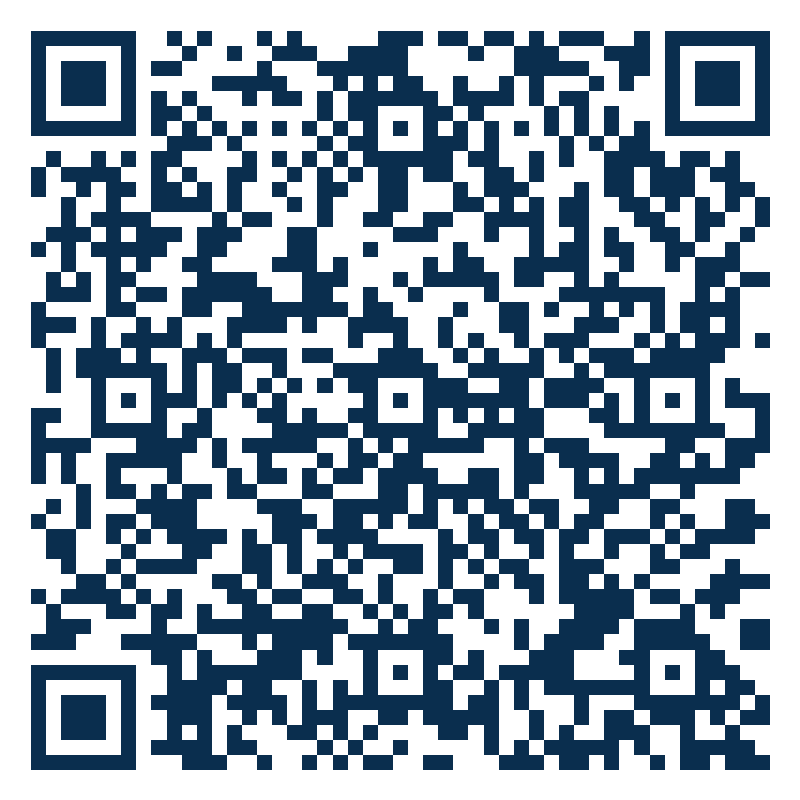
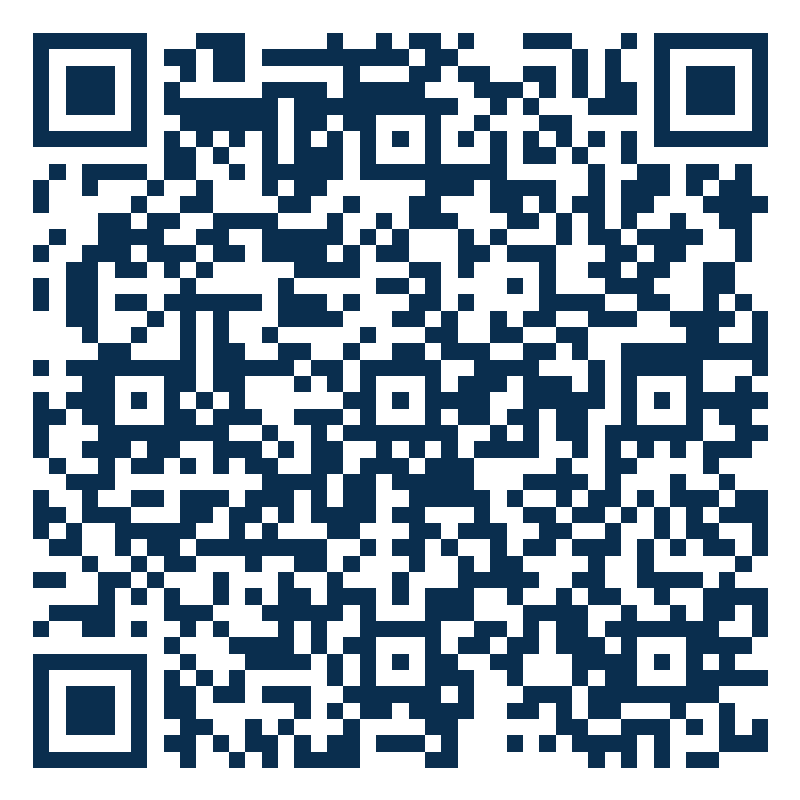
Add resources share mode for QR traffic and regenerate QR targets

diff --git a/docs/marketing/web/qr-links.html b/docs/marketing/web/qr-links.html
@@ -35,49 +35,49 @@
       <article class="card">
         <img src="assets/qr/hub.png" alt="QR to HDIM resources hub">
         <div class="label">1. Resources Hub</div>
-        <div class="url">https://landing-page-ecru-five-65.vercel.app/resources?utm_source=himss2026&utm_medium=qr&utm_campaign=node-to-java-story&utm_content=hub</div>
+        <div class="url">https://landing-page-ecru-five-65.vercel.app/resources?share=1&utm_source=himss2026&utm_medium=qr&utm_campaign=node-to-java-story&utm_content=hub</div>
       </article>
 
       <article class="card">
         <img src="assets/qr/origin-story.png" alt="QR to origin story">
         <div class="label">2. Origin Story</div>
-        <div class="url">https://landing-page-ecru-five-65.vercel.app/resources/origin-story?utm_source=himss2026&utm_medium=qr&utm_campaign=node-to-java-story&utm_content=origin-story</div>
+        <div class="url">https://landing-page-ecru-five-65.vercel.app/resources/origin-story?share=1&utm_source=himss2026&utm_medium=qr&utm_campaign=node-to-java-story&utm_content=origin-story</div>
       </article>
 
       <article class="card">
         <img src="assets/qr/executive-summary.png" alt="QR to executive summary">
         <div class="label">3. Executive Summary</div>
-        <div class="url">https://landing-page-ecru-five-65.vercel.app/resources/executive-summary?utm_source=himss2026&utm_medium=qr&utm_campaign=node-to-java-story&utm_content=executive-summary</div>
+        <div class="url">https://landing-page-ecru-five-65.vercel.app/resources/executive-summary?share=1&utm_source=himss2026&utm_medium=qr&utm_campaign=node-to-java-story&utm_content=executive-summary</div>
       </article>
 
       <article class="card">
         <img src="assets/qr/java-rebuild.png" alt="QR to Java rebuild deep dive">
         <div class="label">4. Java Rebuild</div>
-        <div class="url">https://landing-page-ecru-five-65.vercel.app/resources/java-rebuild?utm_source=himss2026&utm_medium=qr&utm_campaign=node-to-java-story&utm_content=java-rebuild</div>
+        <div class="url">https://landing-page-ecru-five-65.vercel.app/resources/java-rebuild?share=1&utm_source=himss2026&utm_medium=qr&utm_campaign=node-to-java-story&utm_content=java-rebuild</div>
       </article>
 
       <article class="card">
         <img src="assets/qr/architecture-evolution.png" alt="QR to architecture evolution">
         <div class="label">5. Architecture Evolution</div>
-        <div class="url">https://landing-page-ecru-five-65.vercel.app/resources/architecture-evolution?utm_source=himss2026&utm_medium=qr&utm_campaign=node-to-java-story&utm_content=architecture-evolution</div>
+        <div class="url">https://landing-page-ecru-five-65.vercel.app/resources/architecture-evolution?share=1&utm_source=himss2026&utm_medium=qr&utm_campaign=node-to-java-story&utm_content=architecture-evolution</div>
       </article>
 
       <article class="card">
         <img src="assets/qr/evidence-room.png" alt="QR to evidence room">
         <div class="label">6. Evidence Room</div>
-        <div class="url">https://landing-page-ecru-five-65.vercel.app/resources/evidence-room?utm_source=himss2026&utm_medium=qr&utm_campaign=node-to-java-story&utm_content=evidence-room</div>
+        <div class="url">https://landing-page-ecru-five-65.vercel.app/resources/evidence-room?share=1&utm_source=himss2026&utm_medium=qr&utm_campaign=node-to-java-story&utm_content=evidence-room</div>
       </article>
 
       <article class="card">
         <img src="assets/qr/technical-path.png" alt="QR to technical path">
         <div class="label">7. Technical Path</div>
-        <div class="url">https://landing-page-ecru-five-65.vercel.app/resources/technical?utm_source=himss2026&utm_medium=qr&utm_campaign=node-to-java-story&utm_content=technical-path</div>
+        <div class="url">https://landing-page-ecru-five-65.vercel.app/resources/technical?share=1&utm_source=himss2026&utm_medium=qr&utm_campaign=node-to-java-story&utm_content=technical-path</div>
       </article>
 
       <article class="card">
         <img src="assets/qr/himss-brief.png" alt="QR to HIMSS brief">
         <div class="label">8. HIMSS Brief</div>
-        <div class="url">https://landing-page-ecru-five-65.vercel.app/resources/himss-brief?utm_source=himss2026&utm_medium=qr&utm_campaign=node-to-java-story&utm_content=himss-brief</div>
+        <div class="url">https://landing-page-ecru-five-65.vercel.app/resources/himss-brief?share=1&utm_source=himss2026&utm_medium=qr&utm_campaign=node-to-java-story&utm_content=himss-brief</div>
       </article>
     </div>
 

diff --git a/docs/marketing/web/qr-portal.html b/docs/marketing/web/qr-portal.html
@@ -223,7 +223,7 @@
         label: 'Resources Hub',
         short: 'Master index for all buyer paths.',
         qr: 'assets/qr/hub.png',
-        url: 'https://landing-page-ecru-five-65.vercel.app/resources?utm_source=himss2026&utm_medium=qr&utm_campaign=node-to-java-story&utm_content=hub'
+        url: 'https://landing-page-ecru-five-65.vercel.app/resources?share=1&utm_source=himss2026&utm_medium=qr&utm_campaign=node-to-java-story&utm_content=hub'
       },
       {
         id: 'origin-story',
@@ -231,7 +231,7 @@
         label: 'Origin Story',
         short: 'Problem-to-platform founder narrative.',
         qr: 'assets/qr/origin-story.png',
-        url: 'https://landing-page-ecru-five-65.vercel.app/resources/origin-story?utm_source=himss2026&utm_medium=qr&utm_campaign=node-to-java-story&utm_content=origin-story'
+        url: 'https://landing-page-ecru-five-65.vercel.app/resources/origin-story?share=1&utm_source=himss2026&utm_medium=qr&utm_campaign=node-to-java-story&utm_content=origin-story'
       },
       {
         id: 'executive-summary',
@@ -239,7 +239,7 @@
         label: 'Executive Summary',
         short: 'High-level proof and outcomes.',
         qr: 'assets/qr/executive-summary.png',
-        url: 'https://landing-page-ecru-five-65.vercel.app/resources/executive-summary?utm_source=himss2026&utm_medium=qr&utm_campaign=node-to-java-story&utm_content=executive-summary'
+        url: 'https://landing-page-ecru-five-65.vercel.app/resources/executive-summary?share=1&utm_source=himss2026&utm_medium=qr&utm_campaign=node-to-java-story&utm_content=executive-summary'
       },
       {
         id: 'java-rebuild',
@@ -247,7 +247,7 @@
         label: 'Java Rebuild',
         short: 'Node.js to Java decision deep dive.',
         qr: 'assets/qr/java-rebuild.png',
-        url: 'https://landing-page-ecru-five-65.vercel.app/resources/java-rebuild?utm_source=himss2026&utm_medium=qr&utm_campaign=node-to-java-story&utm_content=java-rebuild'
+        url: 'https://landing-page-ecru-five-65.vercel.app/resources/java-rebuild?share=1&utm_source=himss2026&utm_medium=qr&utm_campaign=node-to-java-story&utm_content=java-rebuild'
       },
       {
         id: 'architecture-evolution',
@@ -255,7 +255,7 @@
         label: 'Architecture Evolution',
         short: 'Dated decision log and platform phases.',
         qr: 'assets/qr/architecture-evolution.png',
-        url: 'https://landing-page-ecru-five-65.vercel.app/resources/architecture-evolution?utm_source=himss2026&utm_medium=qr&utm_campaign=node-to-java-story&utm_content=architecture-evolution'
+        url: 'https://landing-page-ecru-five-65.vercel.app/resources/architecture-evolution?share=1&utm_source=himss2026&utm_medium=qr&utm_campaign=node-to-java-story&utm_content=architecture-evolution'
       },
       {
         id: 'evidence-room',
@@ -263,7 +263,7 @@
         label: 'Evidence Room',
         short: 'Governance and diligence path.',
         qr: 'assets/qr/evidence-room.png',
-        url: 'https://landing-page-ecru-five-65.vercel.app/resources/evidence-room?utm_source=himss2026&utm_medium=qr&utm_campaign=node-to-java-story&utm_content=evidence-room'
+        url: 'https://landing-page-ecru-five-65.vercel.app/resources/evidence-room?share=1&utm_source=himss2026&utm_medium=qr&utm_campaign=node-to-java-story&utm_content=evidence-room'
       },
       {
         id: 'technical-path',
@@ -271,7 +271,7 @@
         label: 'Technical Path',
         short: 'Engineering depth and controls.',
         qr: 'assets/qr/technical-path.png',
-        url: 'https://landing-page-ecru-five-65.vercel.app/resources/technical?utm_source=himss2026&utm_medium=qr&utm_campaign=node-to-java-story&utm_content=technical-path'
+        url: 'https://landing-page-ecru-five-65.vercel.app/resources/technical?share=1&utm_source=himss2026&utm_medium=qr&utm_campaign=node-to-java-story&utm_content=technical-path'
       },
       {
         id: 'himss-brief',
@@ -279,7 +279,7 @@
         label: 'HIMSS Brief',
         short: 'Conference-ready walkthrough.',
         qr: 'assets/qr/himss-brief.png',
-        url: 'https://landing-page-ecru-five-65.vercel.app/resources/himss-brief?utm_source=himss2026&utm_medium=qr&utm_campaign=node-to-java-story&utm_content=himss-brief'
+        url: 'https://landing-page-ecru-five-65.vercel.app/resources/himss-brief?share=1&utm_source=himss2026&utm_medium=qr&utm_campaign=node-to-java-story&utm_content=himss-brief'
       }
     ];
 

diff --git a/landing-page/src/app/resources/layout.tsx b/landing-page/src/app/resources/layout.tsx
@@ -1,6 +1,7 @@
 import { Manrope, Space_Grotesk } from 'next/font/google';
 import { LanguageProvider } from '@/lib/i18n/LanguageContext';
 import ResourceNav from '@/components/resources/ResourceNav';
+import ResourcesFooter from '@/components/resources/ResourcesFooter';
 import styles from '@/styles/agui-portal.module.css';
 
 const manrope = Manrope({
@@ -34,11 +35,7 @@ export default function ResourcesLayout({
       >
         <ResourceNav />
         <main className={styles.portalShell}>{children}</main>
-        <footer className={styles.portalShell}>
-          <div className={styles.footer}>
-            <p>HDIM Resources | healthdatainmotion.com</p>
-          </div>
-        </footer>
+        <ResourcesFooter />
       </div>
     </LanguageProvider>
   );

diff --git a/landing-page/src/components/resources/ResourceNav.tsx b/landing-page/src/components/resources/ResourceNav.tsx
@@ -3,6 +3,7 @@
 import Link from 'next/link';
 import { usePathname } from 'next/navigation';
 import { useRouter } from 'next/navigation';
+import { useSearchParams } from 'next/navigation';
 import { useLanguage } from '@/lib/i18n/LanguageContext';
 import styles from '@/styles/agui-portal.module.css';
 
@@ -20,7 +21,13 @@ const navItems = [
 export default function ResourceNav() {
   const pathname = usePathname();
   const router = useRouter();
+  const searchParams = useSearchParams();
   const { locale, setLocale, t } = useLanguage();
+  const shareMode = searchParams.get('share') === '1';
+
+  if (shareMode) {
+    return null;
+  }
 
   return (
     <nav className={styles.portalNav} aria-label="Resources navigation">

diff --git a/landing-page/src/components/resources/ResourcesFooter.tsx b/landing-page/src/components/resources/ResourcesFooter.tsx
@@ -1,0 +1,21 @@
+'use client';
+
+import { useSearchParams } from 'next/navigation';
+import styles from '@/styles/agui-portal.module.css';
+
+export default function ResourcesFooter() {
+  const searchParams = useSearchParams();
+  const shareMode = searchParams.get('share') === '1';
+
+  if (shareMode) {
+    return null;
+  }
+
+  return (
+    <footer className={styles.portalShell}>
+      <div className={styles.footer}>
+        <p>HDIM Resources | healthdatainmotion.com</p>
+      </div>
+    </footer>
+  );
+}

diff --git a/docs/marketing/web/assets/qr/README.md b/docs/marketing/web/assets/qr/README.md
@@ -14,14 +14,14 @@ All QR URLs use:
 - `utm_content=<asset-slug>`
 
 ## Included tracked targets
-- `hub.png` (`utm_content=hub`) -> `https://landing-page-ecru-five-65.vercel.app/resources?utm_source=himss2026&utm_medium=qr&utm_campaign=node-to-java-story&utm_content=hub`
-- `origin-story.png` (`utm_content=origin-story`) -> `https://landing-page-ecru-five-65.vercel.app/resources/origin-story?utm_source=himss2026&utm_medium=qr&utm_campaign=node-to-java-story&utm_content=origin-story`
-- `executive-summary.png` (`utm_content=executive-summary`) -> `https://landing-page-ecru-five-65.vercel.app/resources/executive-summary?utm_source=himss2026&utm_medium=qr&utm_campaign=node-to-java-story&utm_content=executive-summary`
-- `java-rebuild.png` (`utm_content=java-rebuild`) -> `https://landing-page-ecru-five-65.vercel.app/resources/java-rebuild?utm_source=himss2026&utm_medium=qr&utm_campaign=node-to-java-story&utm_content=java-rebuild`
-- `architecture-evolution.png` (`utm_content=architecture-evolution`) -> `https://landing-page-ecru-five-65.vercel.app/resources/architecture-evolution?utm_source=himss2026&utm_medium=qr&utm_campaign=node-to-java-story&utm_content=architecture-evolution`
-- `evidence-room.png` (`utm_content=evidence-room`) -> `https://landing-page-ecru-five-65.vercel.app/resources/evidence-room?utm_source=himss2026&utm_medium=qr&utm_campaign=node-to-java-story&utm_content=evidence-room`
-- `technical-path.png` (`utm_content=technical-path`) -> `https://landing-page-ecru-five-65.vercel.app/resources/technical?utm_source=himss2026&utm_medium=qr&utm_campaign=node-to-java-story&utm_content=technical-path`
-- `himss-brief.png` (`utm_content=himss-brief`) -> `https://landing-page-ecru-five-65.vercel.app/resources/himss-brief?utm_source=himss2026&utm_medium=qr&utm_campaign=node-to-java-story&utm_content=himss-brief`
+- `hub.png` (`utm_content=hub`) -> `https://landing-page-ecru-five-65.vercel.app/resources?share=1&utm_source=himss2026&utm_medium=qr&utm_campaign=node-to-java-story&utm_content=hub`
+- `origin-story.png` (`utm_content=origin-story`) -> `https://landing-page-ecru-five-65.vercel.app/resources/origin-story?share=1&utm_source=himss2026&utm_medium=qr&utm_campaign=node-to-java-story&utm_content=origin-story`
+- `executive-summary.png` (`utm_content=executive-summary`) -> `https://landing-page-ecru-five-65.vercel.app/resources/executive-summary?share=1&utm_source=himss2026&utm_medium=qr&utm_campaign=node-to-java-story&utm_content=executive-summary`
+- `java-rebuild.png` (`utm_content=java-rebuild`) -> `https://landing-page-ecru-five-65.vercel.app/resources/java-rebuild?share=1&utm_source=himss2026&utm_medium=qr&utm_campaign=node-to-java-story&utm_content=java-rebuild`
+- `architecture-evolution.png` (`utm_content=architecture-evolution`) -> `https://landing-page-ecru-five-65.vercel.app/resources/architecture-evolution?share=1&utm_source=himss2026&utm_medium=qr&utm_campaign=node-to-java-story&utm_content=architecture-evolution`
+- `evidence-room.png` (`utm_content=evidence-room`) -> `https://landing-page-ecru-five-65.vercel.app/resources/evidence-room?share=1&utm_source=himss2026&utm_medium=qr&utm_campaign=node-to-java-story&utm_content=evidence-room`
+- `technical-path.png` (`utm_content=technical-path`) -> `https://landing-page-ecru-five-65.vercel.app/resources/technical?share=1&utm_source=himss2026&utm_medium=qr&utm_campaign=node-to-java-story&utm_content=technical-path`
+- `himss-brief.png` (`utm_content=himss-brief`) -> `https://landing-page-ecru-five-65.vercel.app/resources/himss-brief?share=1&utm_source=himss2026&utm_medium=qr&utm_campaign=node-to-java-story&utm_content=himss-brief`
 
 ## Naming
 PNG filenames and `utm_content` use matching slugs for attribution consistency.
